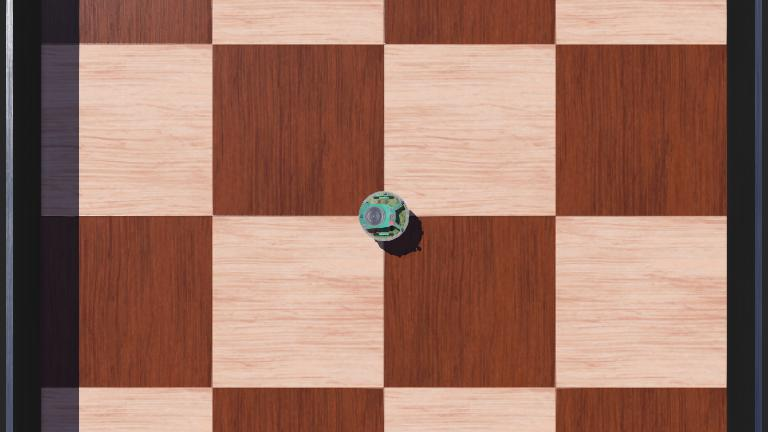
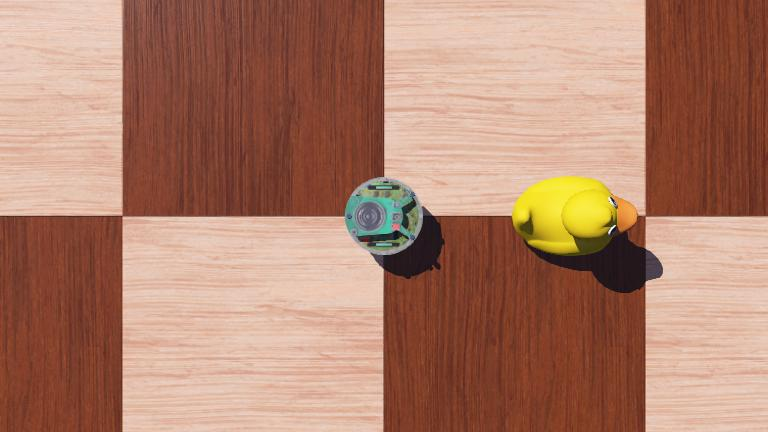
Go back, Dance, Detect Close Object

diff --git a/webots/controllers/e-puck_GoBack/e-puck_GoBack.py b/webots/controllers/e-puck_GoBack/e-puck_GoBack.py
@@ -1,5 +1,6 @@
-from controller import Robot, Compass, GPS
+from controller import Robot, Compass, GPS, LED, DistanceSensor
 import math
+import time
 from math import atan2, degrees
 import random
 
@@ -25,6 +26,71 @@ gps.enable(TIME_STEP)
 # Set motors to velocity mode
 left_motor.setPosition(float('inf'))
 right_motor.setPosition(float('inf'))
+        
+# Initialize LEDs
+leds = []
+for i in range(8):
+    led = robot.getDevice(f'led{i}')
+    if led:
+        leds.append(led)
+        
+# Initialize proximity sensors
+ps = []
+for i in range(8):
+    sensor = robot.getDevice(f'ps{i}')
+    if sensor:
+        sensor.enable(TIME_STEP)
+        ps.append(sensor)
+        
+# LED timer dictionary
+led_timers = {i: 0 for i in range(len(leds))}
+LED_DURATION = 3000  # 3 seconds in milliseconds
+
+# Direction mapping for better debug messages
+direction_names = {
+0: "FRONT",
+1: "FRONT-RIGHT",
+2: "RIGHT",
+3: "BACK-RIGHT",
+4: "BACK",
+5: "BACK-LEFT",
+6: "LEFT",
+7: "FRONT-LEFT"
+}
+        
+def check_collisions():
+    """Check for very close objects using distance sensors"""
+    threshold = 1000  # Very high value indicates very close object
+    collisions = []
+        
+    for i, sensor in enumerate(ps):
+        value = sensor.getValue()
+            # Print sensor values for debugging
+            #print(f"Sensor {i} ({self.direction_names[i]}): {value}")
+             
+        if value > threshold:
+            print(f"Very close object detected at {direction_names[i]}")
+            collisions.append(i)
+            blink_led(i)
+        
+    return collisions
+  
+def blink_led(led_index):
+    """Blink a specific LED"""
+    if 0 <= led_index and led_index < len(leds):
+        current_time = robot.getTime() * 1000
+        leds[led_index].set(1)
+        led_timers[led_index] = current_time
+        print(f"LED {led_index} turned ON ({direction_names[led_index]} position)")
+
+def update_leds():
+    """Turn off LEDs after duration"""
+    current_time = robot.getTime() * 1000
+    for led_index, start_time in led_timers.items():
+        if start_time > 0 and current_time - start_time > LED_DURATION:
+            leds[led_index].set(0)
+            led_timers[led_index] = 0
+            print(f"LED {led_index} turned OFF ({direction_names[led_index]} position)")
 
 def get_heading_angle():
     north = compass.getValues()  
@@ -130,6 +196,7 @@ def dance(current_time):
         return False 
     return True
  
+
     
 # Set to True to start dancing -> skips the moving part until the dance finishes
 dance_flag = False
@@ -137,6 +204,9 @@ current_time = 0
 
 # Main loop
 while robot.step(TIME_STEP) != -1:
+    check_collisions()
+    update_leds()
+    
     left_motor.setVelocity(0)
     right_motor.setVelocity(0)
     
@@ -145,7 +215,7 @@ while robot.step(TIME_STEP) != -1:
     bearing = compass_bearing(current_coordinate, destination)
     
     current_heading = get_heading_angle()
-    print(f"Angle heading: {current_heading}")
+    #print(f"Angle heading: {current_heading}")
     
     if not dance_flag:
     
@@ -161,25 +231,15 @@ while robot.step(TIME_STEP) != -1:
         else:
             print(f"bearing: {bearing}")
             if (current_heading > bearing - 3 and current_heading < bearing + 3):
-                print("is in the right direction")
+                #print("is in the right direction")
                 left_motor.setVelocity(4.0)
                 right_motor.setVelocity(4.0)
             else:
-                print("not in the right direction")
+                #print("not in the right direction")
                 left_motor.setVelocity(SPIN_SPEED)
                 right_motor.setVelocity(-SPIN_SPEED)    
     else:
         # keeps dancing until the 16 second dance finishes
         dance_flag = dance(current_time)
         
-        
-    
-    
-    # Get current compass heading
-    
-    # Print the compass value
-   
-    # Spin the robot in place
-    
-    #left_motor.setVelocity(FORWARD_SPEED)
-    #right_motor.setVelocity(FORWARD_SPEED)
+ 
